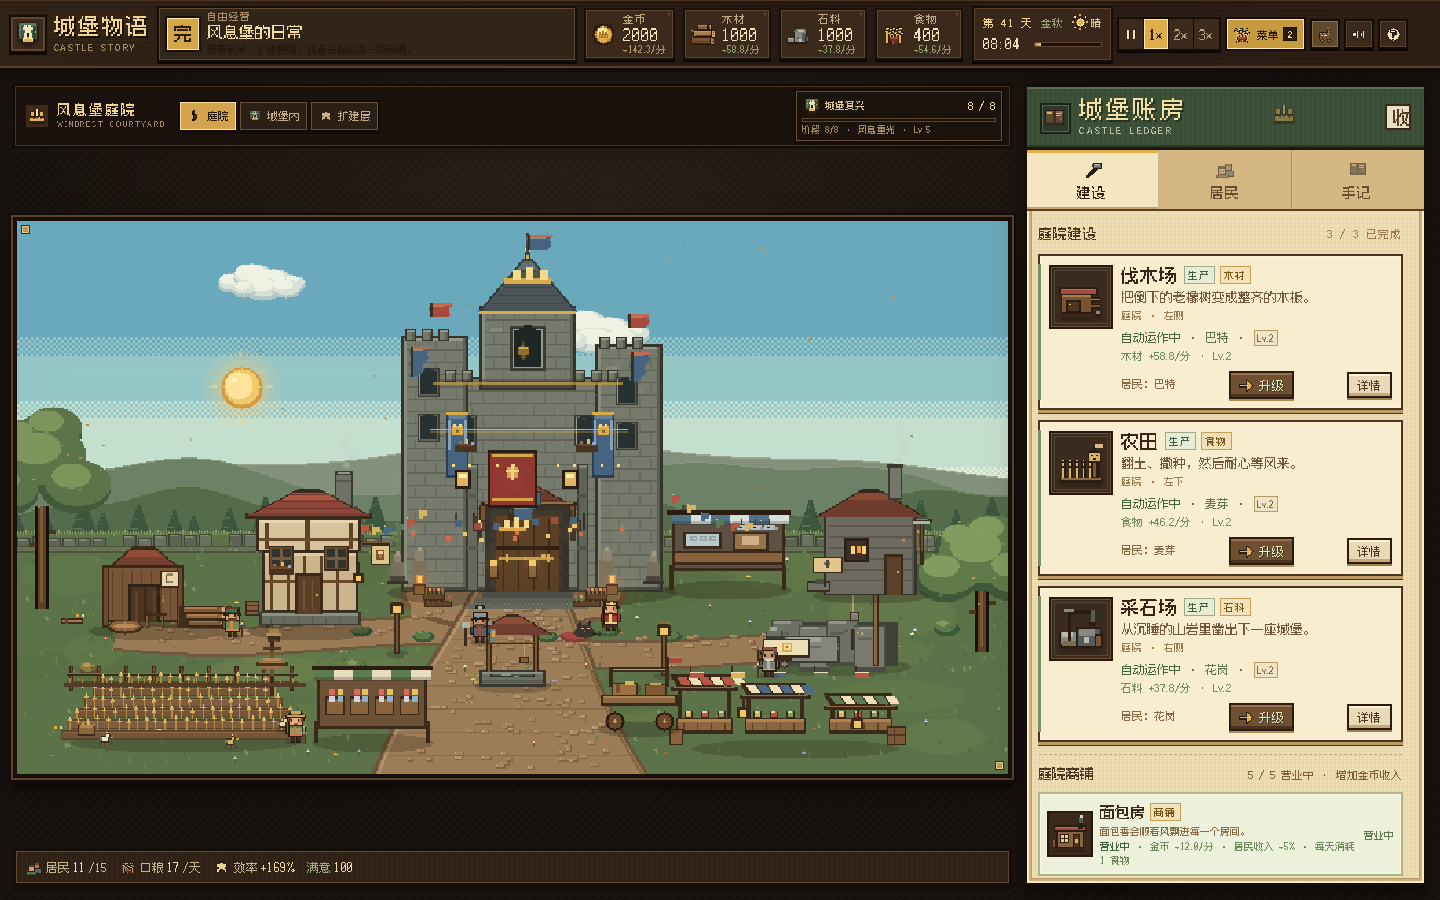
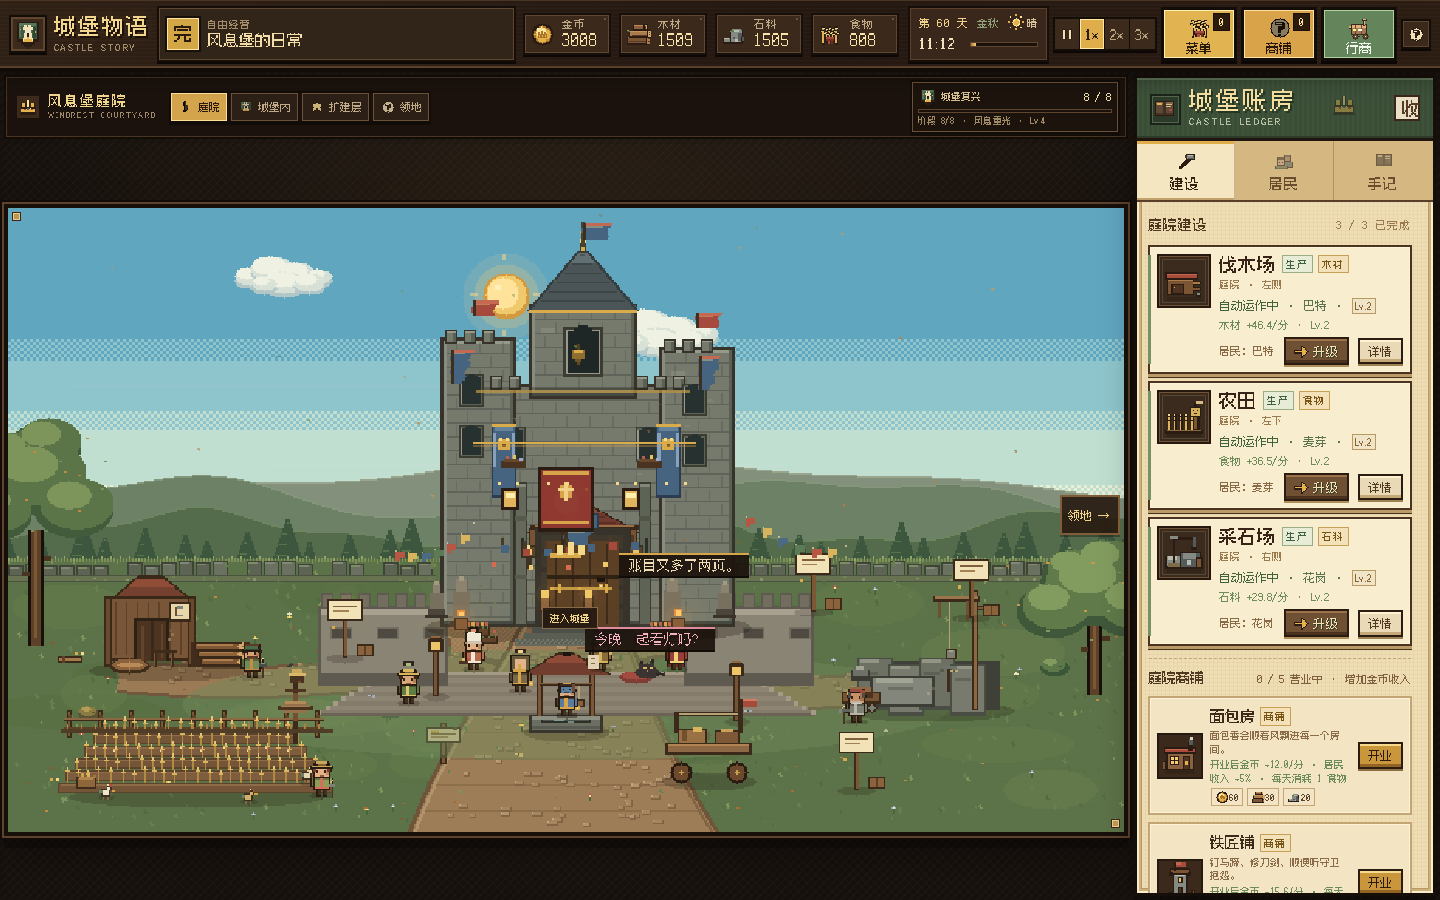
优化对话气泡位置并更新预览图

diff --git a/js/scene.js b/js/scene.js
@@ -2994,8 +2994,9 @@ window.CastleScene = (function () {
       ctx.font = "9px 'PingFang SC', 'Microsoft YaHei', monospace";
       const tw = ctx.measureText(b.text).width;
       const w = Math.min(160, Math.max(36, tw + 12));
-      const x = Math.max(6, Math.min(W - w - 6, pt.x - w / 2));
-      const y = Math.max(8, pt.y - 52);
+      const shift = Math.abs(pt.x - 360) < 70 ? (pt.x >= 360 ? 54 : -54) : 0;
+      const x = Math.max(6, Math.min(W - w - 6, pt.x - w / 2 + shift));
+      const y = Math.max(8, pt.y - 58 - (k % 3) * 18);
       ctx.globalAlpha = 0.94;
       R(ctx, x, y, w, 16, "#1d140e");
       ctx.globalAlpha = 1;

diff --git a/README.md b/README.md
@@ -4,7 +4,9 @@
 
 **在线试玩：<https://gigige1999.github.io/midagetown/>**
 
-![高阶段城堡外观](preview.png)
+![高阶段城堡外观与角色对话](preview.png)
+![角色关系与随机对话](preview-social.png)
+![袭击警示与城门外的袭击者](preview-raid.png)
 ![多层扩建、房间尺寸与客人职业](preview-expansion.png)
 ![领地农田扩建与播种](preview-land.png)
 ![所有居民与客人聚集的丰收庆典](preview-festival.png)
